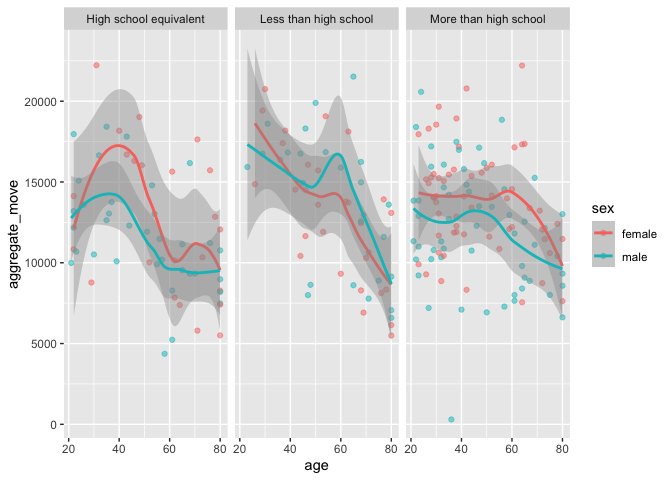
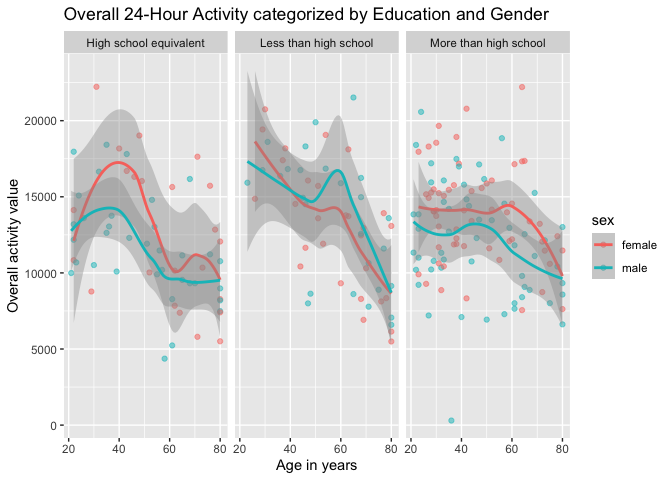
added graph label

diff --git a/p8105_hw3_yd2739.md b/p8105_hw3_yd2739.md
@@ -329,8 +329,7 @@ excellent_plot
 
 ![](p8105_hw3_yd2739_files/figure-gfm/unnamed-chunk-13-1.png)<!-- -->
 
-I’m not sure this is the plot we required to do. It looks not tidy and
-hard for any interpretation.
+It looks hard for interpretation.
 
 #### Make a two-panel plot showing, for the years 2006, and 2010, distribution of data_value for responses among locations in NY State
 
@@ -377,7 +376,8 @@ NY_distribution_boxplot
 
 ![](p8105_hw3_yd2739_files/figure-gfm/unnamed-chunk-16-1.png)<!-- -->
 
-## Problem 3
+We could see that the median value of very good increases from 2006 to
+2010. \## Problem 3
 
 ``` r
 #import data and data cleaning
@@ -469,15 +469,18 @@ sex_vs_edu_age_df  = merged_acc_info_df|>
 sex_vs_edu_age_plot = merged_acc_info_df|>
   ggplot(aes(x = age, color = sex))+
   geom_density()+
-  facet_grid(. ~ education)
+  facet_grid(. ~ education)+
+  labs(title = "distribution of different gender across age in different education level", 
+       x = "Age in years",
+       y = "density ")
 sex_vs_edu_age_plot
 ```
 
 ![](p8105_hw3_yd2739_files/figure-gfm/unnamed-chunk-19-1.png)<!-- -->
 
-From the plot, we could see the trend that for people who have high
-school degree, more of them are younger people. For people who have less
-than high school degree, more of them are older people.
+From the plot, we could see the trend that for people who have more than
+high school degree, more of them are younger people. For people who have
+less than high school degree, more of them are older people.
 
 ``` r
 acc_info_agg_df = merged_acc_info_df|>
@@ -489,17 +492,22 @@ agg_age_plot = acc_info_agg_df|>
   ggplot(aes(x = age, y = aggregate_move, color = sex))+
   geom_point(alpha = .5)+
   geom_smooth()+
-  facet_grid(. ~ education)
+  facet_grid(. ~ education)+
+  labs(title = "Overall 24-Hour Activity categorized by Education and Gender", 
+       x = "Age in years",
+       y = "Overall activity value")
 agg_age_plot
 ```
 
     ## `geom_smooth()` using method = 'loess' and formula = 'y ~ x'
 
 ![](p8105_hw3_yd2739_files/figure-gfm/unnamed-chunk-20-1.png)<!-- --> We
-could observe that as age exceed 60, all movement starts to decrease. In
-high school group and more than high school group, females shows higher
-movement compare to male, while less than high school group, male’s
-movement exceed female’s movement.
+could observe that as age exceed 60, all movement starts to decrease
+regardless of age or education level. In high school group and more than
+high school group, females shows higher movement compare to male, while
+less than high school group, male’s movement exceed female’s movement
+after exceeding 40 years old. Also, the average movement line for high
+education level people is smoother.
 
 ``` r
 grouped_24hr_avg_df = merged_acc_info_df|>
@@ -519,7 +527,10 @@ grouped_24hr_avg_df = merged_acc_info_df|>
 grouped_24hr_avg_plot = grouped_24hr_avg_df|>
   ggplot(aes(x = time, y = mean, color = sex))+
   geom_line()+
-  facet_grid(. ~ education)
+  facet_grid(. ~ education)+
+  labs(title = "Average 24-Hour Activity by minutes categorized by Education and Gender", 
+       x = "Time in minutes",
+       y = "Mean activity value")
 grouped_24hr_avg_plot
 ```
 
